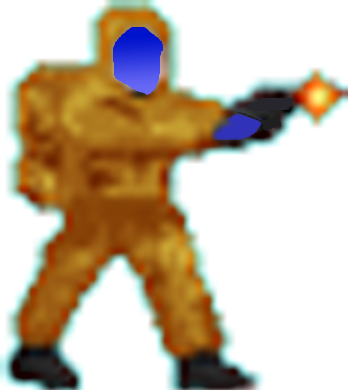
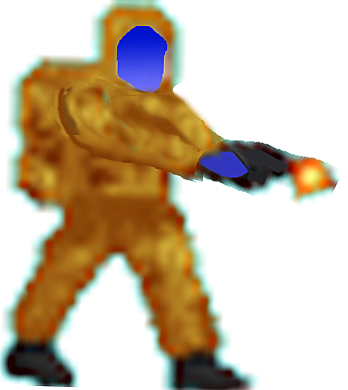
heyyy

diff --git a/FinalProject/Player.cs b/FinalProject/Player.cs
@@ -109,32 +109,47 @@ namespace FinalProject
             {
                 float angle = (float)Math.Atan2(mouseState.Y - (_location.Y + _location.Height / 2), mouseState.X - (_location.X + _location.Width / 2));
                 angle = MathHelper.ToDegrees(angle);
-                if(angle >= 20 && angle <= 80)
-                    {
-                   _playerSkin = _playerTextures[15];
-                }
-                if (angle >= 70 && angle <= 110)
+                System.Diagnostics.Debug.WriteLine(angle.ToString());
+                if (angle >= -22.5 && angle <= 22.5)
                 {
+                   _playerSkin = _playerTextures[12];
+                }
+                else if (angle >= 22.5 && angle <= 67.5)
+                {
+                    _playerSkin = _playerTextures[15];
+                }
+                else if (angle >= 67.5 && angle <= 112.5)
+                {
+                    //works
                     _playerSkin = _playerTextures[10];
                 }
-                if (angle >= 110 && angle<= 170)
+                else if (angle >= 112.5 && angle <= 157.5)
+                {
+                    _playerSkin = _playerTextures[16];
+                }
+                else if (angle >= -157.5 && angle <= -112.5)
+                {
+                    _playerSkin = _playerTextures[14];
+                }
+                else if (angle >= -112.5 && angle <= -67.5)
+                {
+                    _playerSkin = _playerTextures[9];
+                }
+                else if (angle >= -67.5 && angle <= -22.5)
+                {
+                    _playerSkin = _playerTextures[13];
+                }
+                else
                 {
                     _playerSkin = _playerTextures[11];
-                }
-                if (angle >= 160 && angle <= 200)
-                {
-                    _playerSkin = _playerTextures[12];
                 }
                 //if (angle <=20 && angle >= 340)
                 //{
 
                 //}
 
-                    else
-                    {
-                        _playerSkin = _playerTextures[10];
-                    }
-                
+
+
                 //diffX = _location.X - mouseState.X;
                 //diffY = _location.Y - mouseState.Y;
 
